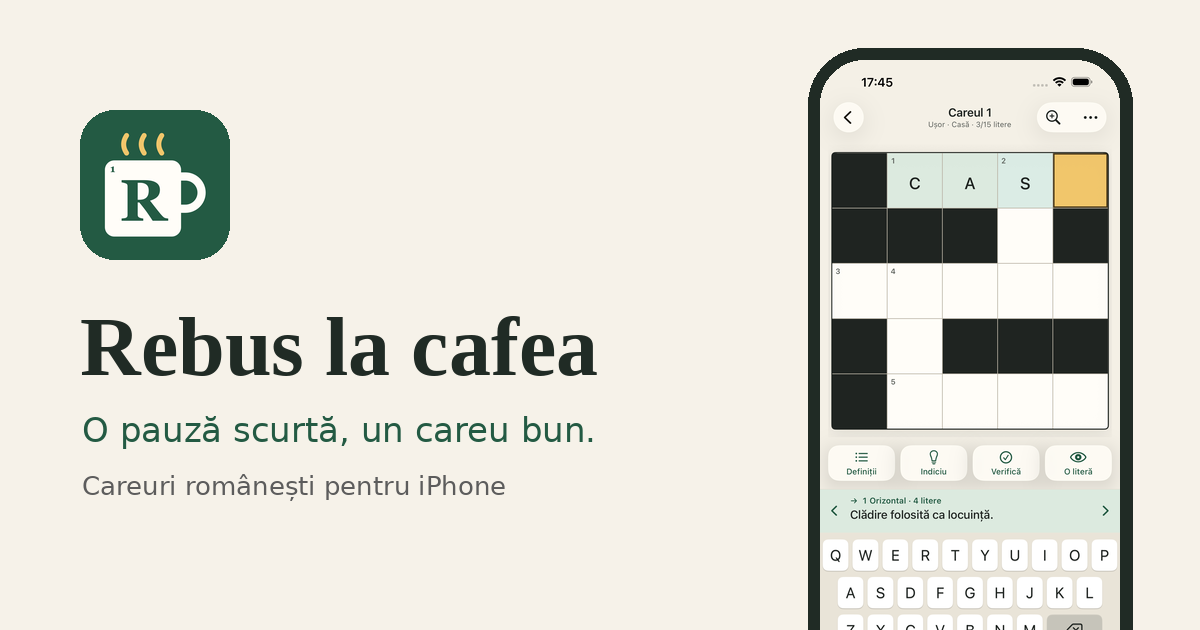
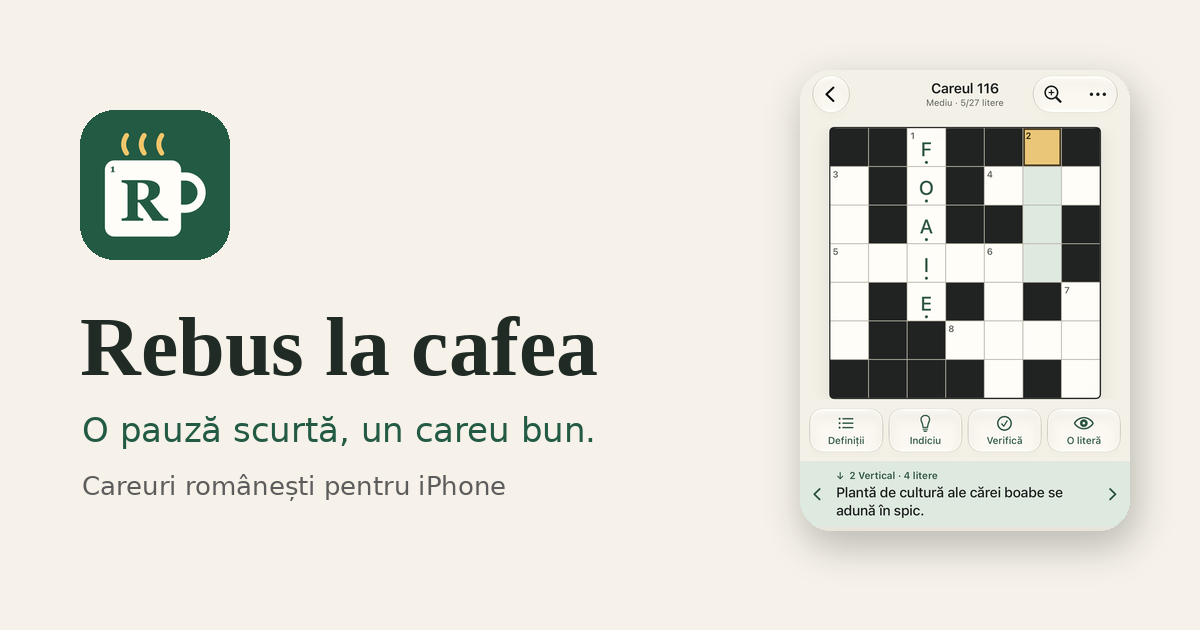
Use real iPhone screenshots in Airbnb-style cards
Crop the owner's device screenshots (no status or tab bar), show the
game as the hero with floating stats and diacritics cards, and present
Home, Careul zilei and the streak calendar as rounded 4:5 cards with
soft shadows. Rounder feature and plan cards. Social image uses the
device screenshot.

Claude-Session: https://claude.ai/code/session_01JJRj1G5kN8ymvgAW4eHjDh

Changed region(s): [[0.6475, 0.0603, 0.9558, 1.0]]

diff --git a/index.html b/index.html
@@ -48,11 +48,10 @@
         <p class="meta cta-note">Pentru iPhone · Gratuit, cu Premium opțional</p>
       </div>
 
-      <figure class="phone hero-phone">
-        <picture>
-          <source srcset="img/joc-dark.webp" media="(prefers-color-scheme: dark)">
-          <img src="img/joc-light.webp" alt="Un careu în lucru: CAS completat pe primul rând, definiția „Clădire folosită ca locuință” și tastatura cu Ă, Â, Î, Ș, Ț." width="600" height="1304" fetchpriority="high">
-        </picture>
+      <figure class="hero-visual">
+        <img class="hero-main" src="img/joc.webp" alt="Careul 116 în lucru: FOAIE completat pe verticală și definiția „Plantă de cultură ale cărei boabe se adună în spic”." width="800" height="1117" fetchpriority="high">
+        <img class="float float-keys" src="img/diacritice.webp" alt="Rândul de taste Ă, Â, Î, Ș, Ț." width="720" height="101">
+        <img class="float float-stats" src="img/serie.webp" alt="Seria zilnică: zile la rând, record și 0 din 60 rezolvate." width="720" height="136">
       </figure>
     </section>
 
@@ -64,43 +63,25 @@
 
     <section class="section frame" id="ecrane" aria-labelledby="ecrane-titlu">
       <h2 id="ecrane-titlu">Cum arată</h2>
-      <p class="section-lede">Capturi din aplicație. Totul în română, cu temă luminoasă sau întunecată.</p>
+      <p class="section-lede">Capturi de pe iPhone. Totul în română, de la definiții la tastatură.</p>
       <div class="gallery">
-        <figure class="shot">
-          <div class="phone">
-            <picture>
-              <source srcset="img/acasa-dark.webp" media="(prefers-color-scheme: dark)">
-              <img src="img/acasa-light.webp" alt="Ecranul Acasă, cu primul careu și Careul zilei." width="600" height="1304" loading="lazy">
-            </picture>
+        <figure class="card">
+          <div class="card-media">
+            <img src="img/acasa.webp" alt="Ecranul Acasă: careul „Încă o înghițitură”, 8 din 17 căsuțe completate." width="720" height="900" loading="lazy">
           </div>
-          <figcaption><strong>Acasă</strong> Continui de unde ai rămas sau începi un careu nou.</figcaption>
+          <figcaption><strong>Acasă</strong> Continui de unde ai rămas, cu un careu nou pe teme.</figcaption>
         </figure>
-        <figure class="shot">
-          <div class="phone">
-            <picture>
-              <source srcset="img/explicatie-dark.webp" media="(prefers-color-scheme: dark)">
-              <img src="img/explicatie-light.webp" alt="Foaia cu indiciul și explicația pentru cuvântul CASĂ." width="600" height="1304" loading="lazy">
-            </picture>
+        <figure class="card">
+          <div class="card-media">
+            <img src="img/zilei.webp" alt="Careul zilei, ziua 5: grilă 9 × 9 și definiția „Trasează cercuri perfecte, fără să te bazezi pe ochi”." width="720" height="900" loading="lazy">
           </div>
-          <figcaption><strong>Indiciu și explicație</strong> Un indiciu te pune pe drumul bun, iar explicația te învață ceva nou.</figcaption>
+          <figcaption><strong>Careul zilei</strong> O provocare 9 × 9 pe zi, cu definiții mai jucăușe.</figcaption>
         </figure>
-        <figure class="shot">
-          <div class="phone">
-            <picture>
-              <source srcset="img/zilei-dark.webp" media="(prefers-color-scheme: dark)">
-              <img src="img/zilei-light.webp" alt="Careul zilei, ziua 3 din 60, cu calendarul lunii." width="600" height="1304" loading="lazy">
-            </picture>
+        <figure class="card">
+          <div class="card-media">
+            <img src="img/calendar.webp" alt="Calendarul seriei zilnice pentru octombrie 2026." width="720" height="900" loading="lazy">
           </div>
-          <figcaption><strong>Careul zilei</strong> O provocare 9 × 9 pe zi și un calendar al seriei tale.</figcaption>
-        </figure>
-        <figure class="shot">
-          <div class="phone">
-            <picture>
-              <source srcset="img/gata-dark.webp" media="(prefers-color-scheme: dark)">
-              <img src="img/gata-light.webp" alt="Ecranul de final, „Careu gata. Pauză reușită.”" width="600" height="1304" loading="lazy">
-            </picture>
-          </div>
-          <figcaption><strong>Careu gata</strong> O pauză reușită și următorul careu, la un pas.</figcaption>
+          <figcaption><strong>Seria ta</strong> Zile la rând, record și un calendar cu tot ce ai rezolvat.</figcaption>
         </figure>
       </div>
     </section>

diff --git a/site.css b/site.css
@@ -10,6 +10,8 @@
   --selection: #d6e5db;
   --surface: #fffdf8;
   --on-accent: #ffffff;
+  --shadow: 0 1px 2px rgb(32 43 37 / 0.06), 0 6px 20px rgb(32 43 37 / 0.1);
+  --shadow-lg: 0 2px 6px rgb(32 43 37 / 0.08), 0 18px 40px -8px rgb(32 43 37 / 0.28);
   --gutter: clamp(1.25rem, 4vw, 2.5rem);
   --serif: ui-serif, "Iowan Old Style", "Palatino Linotype", Georgia, serif;
   --sans: -apple-system, BlinkMacSystemFont, "Segoe UI", sans-serif;
@@ -291,25 +293,41 @@ a.badge:hover {
   background: var(--selection);
 }
 
-.phone {
-  margin: 0;
-  padding: 7px;
-  background: #202b25;
-  border-radius: 2.4rem;
-  box-shadow: 0 1.5rem 3rem -1.5rem rgb(0 0 0 / 0.5);
+.hero-visual {
+  position: relative;
+  inline-size: min(100%, 20rem);
+  margin: 0 auto;
+  padding-block: 1.5rem 3.25rem;
 }
 
-.phone img {
+.hero-main {
   display: block;
   inline-size: 100%;
   block-size: auto;
-  border-radius: 2rem;
+  border-radius: 28px;
+  box-shadow: var(--shadow-lg);
 }
 
-.hero-phone {
-  inline-size: min(100%, 17rem);
-  justify-self: center;
-  transform: rotate(2deg);
+.float {
+  position: absolute;
+  block-size: auto;
+  box-shadow: var(--shadow-lg);
+}
+
+.float-keys {
+  inset-block-start: 0;
+  inset-inline-end: -2.5rem;
+  inline-size: 78%;
+  border-radius: 14px;
+  transform: rotate(3deg);
+}
+
+.float-stats {
+  inset-block-end: 0;
+  inset-inline-start: -3rem;
+  inline-size: 92%;
+  border-radius: 22px;
+  transform: rotate(-2deg);
 }
 
 .cta-note {
@@ -318,33 +336,43 @@ a.badge:hover {
 
 .gallery {
   display: grid;
-  grid-template-columns: repeat(4, minmax(0, 1fr));
-  gap: 1.5rem;
+  grid-template-columns: repeat(3, minmax(0, 1fr));
+  gap: 1.75rem;
 }
 
-.shot {
+.card {
   margin: 0;
 }
 
-.shot .phone {
-  padding: 5px;
-  border-radius: 1.6rem;
+.card-media {
+  overflow: hidden;
+  border-radius: 24px;
+  background: var(--surface);
+  box-shadow: var(--shadow);
 }
 
-.shot .phone img {
-  border-radius: 1.3rem;
+.card-media img {
+  display: block;
+  inline-size: 100%;
+  block-size: auto;
+  transition: transform 0.4s ease;
 }
 
-.shot figcaption {
+.card:hover .card-media img {
+  transform: scale(1.03);
+}
+
+.card figcaption {
   margin-block-start: 0.9rem;
   color: var(--secondary);
   font-size: 0.9375rem;
   line-height: 1.45;
 }
 
-.shot figcaption strong {
+.card figcaption strong {
   display: block;
   color: var(--ink);
+  font-size: 1.0625rem;
 }
 
 .plans-cta {
@@ -404,10 +432,11 @@ a.badge:hover {
 
 .features li,
 .plan {
-  padding: 1.25rem 1.5rem;
+  padding: 1.5rem;
   background: var(--surface);
   border: 1px solid var(--rule);
-  border-radius: 10px;
+  border-radius: 20px;
+  box-shadow: var(--shadow);
 }
 
 .features h3,
@@ -511,23 +540,31 @@ a.badge:hover {
     grid-template-columns: 1fr;
   }
 
-  .hero-phone {
-    inline-size: min(70%, 15rem);
+  .hero-visual {
+    inline-size: min(72%, 17rem);
+  }
+
+  .float-keys {
+    inset-inline-end: -1.5rem;
+  }
+
+  .float-stats {
+    inset-inline-start: -1.5rem;
   }
 
   .gallery {
     grid-auto-flow: column;
     grid-template-columns: none;
-    grid-auto-columns: 62%;
+    grid-auto-columns: 72%;
     overflow-x: auto;
     scroll-snap-type: x mandatory;
-    padding-block-end: 1rem;
+    padding-block: 0.5rem 1.5rem;
     margin-inline: calc(var(--gutter) * -1);
     padding-inline: var(--gutter);
     scroll-padding-inline: var(--gutter);
   }
 
-  .shot {
+  .card {
     scroll-snap-align: start;
   }
 }
@@ -559,5 +596,7 @@ a.badge:hover {
     --selection: #425e4d;
     --surface: #1c2621;
     --on-accent: #10231a;
+    --shadow: 0 1px 2px rgb(0 0 0 / 0.3), 0 6px 20px rgb(0 0 0 / 0.35);
+    --shadow-lg: 0 2px 6px rgb(0 0 0 / 0.3), 0 18px 40px -8px rgb(0 0 0 / 0.6);
   }
 }
